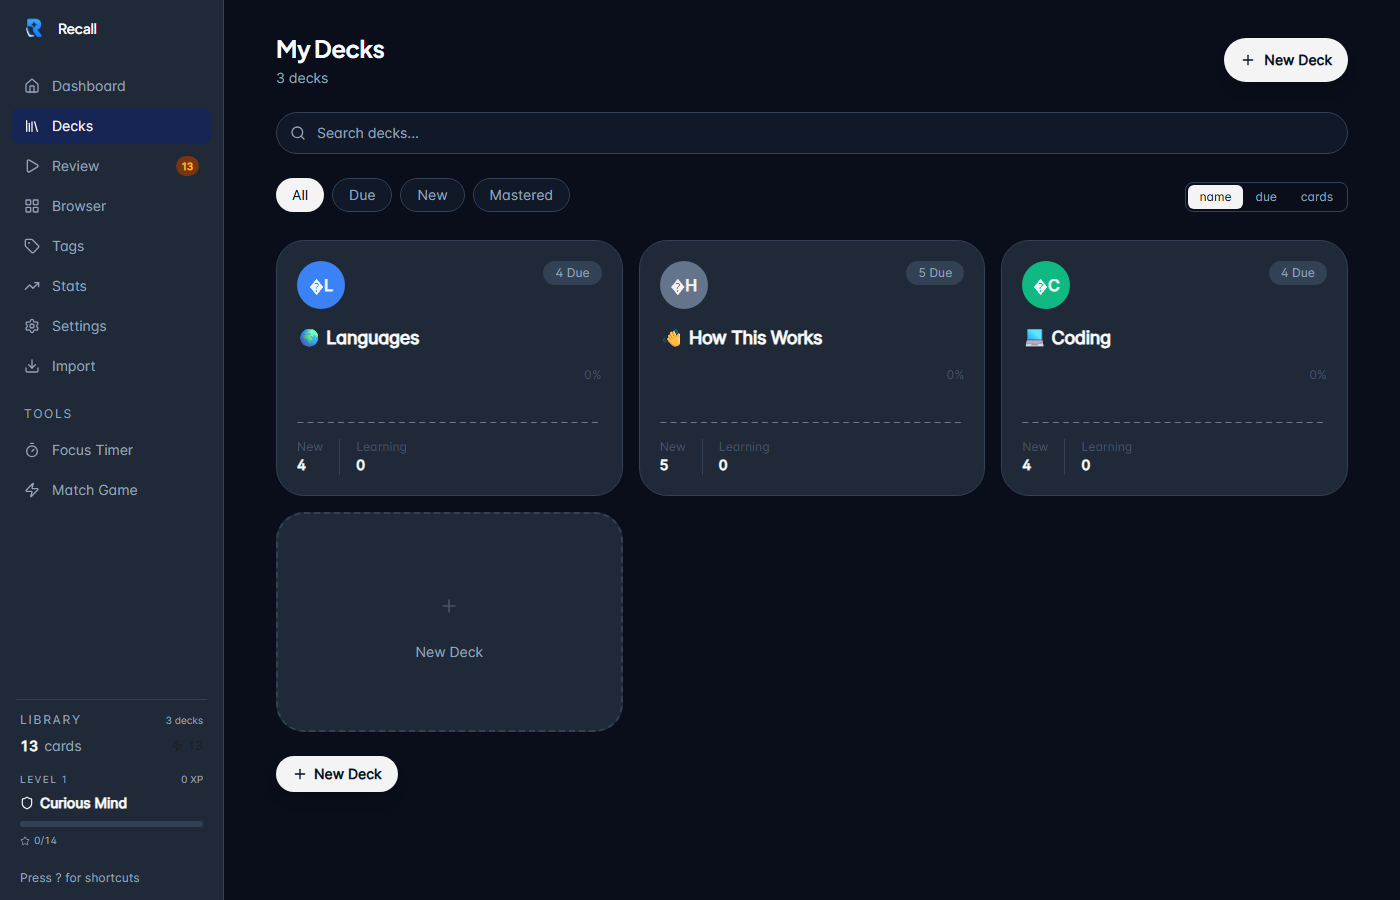
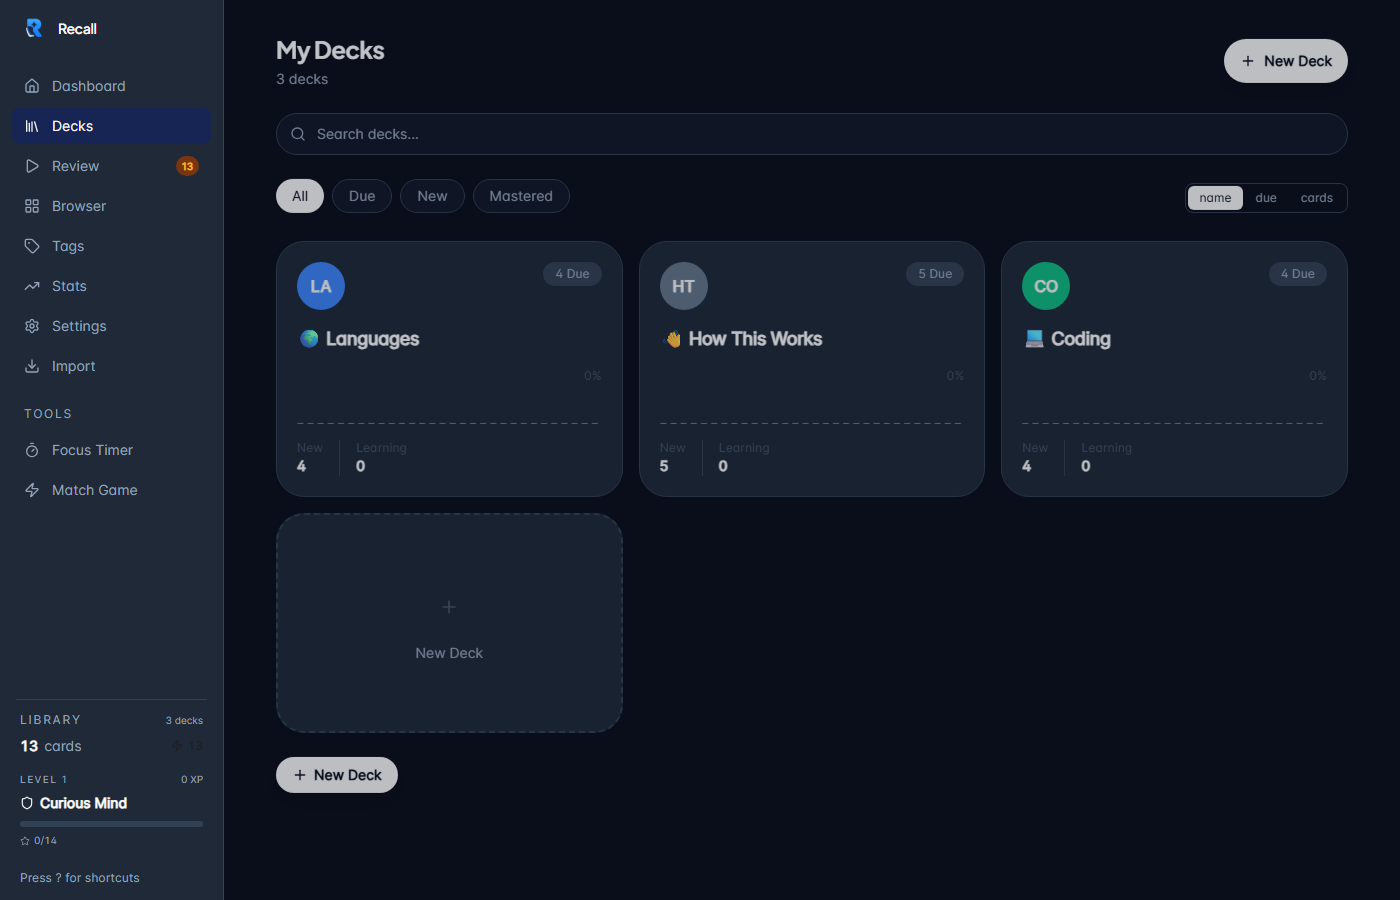
fix: deck card initials skip emoji + drop README em dashes
Template deck names start with emoji; old initials took a UTF-16
half-surrogate and rendered a diamond-H/C/L glyph. Use letter-only
tokens (HT/CO/LA). Strip em/en dashes from README; recapture deck browser.

diff --git a/src/components/deck-card.tsx b/src/components/deck-card.tsx
@@ -12,6 +12,18 @@ interface DeckCardProps {
   onOpen: () => void;
 }
 
+/** First 1-2 letter initials, ignoring emoji/symbol-only tokens. */
+export function deckInitials(name: string): string {
+  const words = name
+    .trim()
+    .split(/\s+/)
+    .map((w) => (w.match(/\p{L}/gu) ?? []).join(""))
+    .filter(Boolean);
+  if (words.length >= 2) return (words[0][0] + words[1][0]).toUpperCase();
+  if (words.length === 1) return words[0].slice(0, 2).toUpperCase();
+  return "?";
+}
+
 export function DeckCard({ deck, onOpen }: DeckCardProps): JSX.Element {
   const { t } = useTranslation();
   const cards = useRecallStore((state) => state.cards);
@@ -29,11 +41,8 @@ export function DeckCard({ deck, onOpen }: DeckCardProps): JSX.Element {
     return forecast.map((f) => ({ height: Math.max(Math.round((f.due / max) * 20), 1) }));
   }, [deckCards]);
 
-  const abbr = useMemo(() => {
-    const words = deck.name.trim().split(/\s+/);
-    if (words.length >= 2) return (words[0][0] + words[1][0]).toUpperCase();
-    return deck.name.slice(0, 2).toUpperCase();
-  }, [deck.name]);
+  // Template decks prefix emoji in name ("👋 How This Works"); skip non-letters.
+  const abbr = useMemo(() => deckInitials(deck.name), [deck.name]);
 
   return (
     <button

diff --git a/src/components/__tests__/deck-initials.test.ts b/src/components/__tests__/deck-initials.test.ts
@@ -1,0 +1,15 @@
+import { describe, expect, it } from "vitest";
+import { deckInitials } from "@/components/deck-card";
+
+describe("deckInitials", () => {
+  it("skips leading emoji on template deck names", () => {
+    expect(deckInitials("👋 How This Works")).toBe("HT");
+    expect(deckInitials("💻 Coding")).toBe("CO");
+    expect(deckInitials("🌐 Languages")).toBe("LA");
+  });
+
+  it("handles plain multi-word and single-word names", () => {
+    expect(deckInitials("Japanese N5")).toBe("JN");
+    expect(deckInitials("Anatomy")).toBe("AN");
+  });
+});

diff --git a/README.md b/README.md
@@ -5,7 +5,7 @@
 [![License: MIT](https://img.shields.io/badge/License-MIT-green.svg)](LICENSE)
 [![Platform](https://img.shields.io/badge/platform-Windows%20%7C%20macOS%20%7C%20Linux%20%7C%20PWA-blue)](https://github.com/Madlezz/Recall/releases/latest)
 
-**Recall** is a local-first flashcard app built for focused learning. It uses FSRS-based scheduling for modern spaced repetition — open it and start reviewing. Your data stays on your machine. Available as a desktop app (Windows / macOS / Linux) and a PWA on mobile.
+**Recall** is a local-first flashcard app built for focused learning. It uses FSRS-based scheduling for modern spaced repetition - open it and start reviewing. Your data stays on your machine. Available as a desktop app (Windows / macOS / Linux) and a PWA on mobile.
 
 ## Documentation
 
@@ -46,7 +46,7 @@ Anki pioneered spaced repetition and has an enormous add-on ecosystem. Recall ta
 
 ## Screenshots
 
-Dashboard — due cards, daily goal, deck grid:
+Dashboard - due cards, daily goal, deck grid:
 
 ![Dashboard](docs/screenshots/dashboard.png)
 
@@ -54,31 +54,31 @@ Deck browser:
 
 ![Deck Browser](docs/screenshots/deck-browser.png)
 
-Deck detail — stats, tags, card list:
+Deck detail - stats, tags, card list:
 
 ![Deck Detail](docs/screenshots/deck-detail.png)
 
-Study — card front:
+Study - card front:
 
 ![Study Mode](docs/screenshots/study.png)
 
-Study — answer revealed + FSRS interval preview:
+Study - answer revealed + FSRS interval preview:
 
-![Study — Answer Revealed](docs/screenshots/study-revealed.png)
+![Study - Answer Revealed](docs/screenshots/study-revealed.png)
 
-Stats — activity, retention, forecast:
+Stats - activity, retention, forecast:
 
 ![Stats](docs/screenshots/stats.png)
 
-Tags — hierarchical tree:
+Tags - hierarchical tree:
 
 ![Tags](docs/screenshots/tags.png)
 
-Card browser — search, filter, bulk actions:
+Card browser - search, filter, bulk actions:
 
 ![Card Browser](docs/screenshots/card-browser.png)
 
-Settings — theme, accent, language, TTS:
+Settings - theme, accent, language, TTS:
 
 ![Settings](docs/screenshots/settings.png)
 
@@ -89,49 +89,49 @@ Settings — theme, accent, language, TTS:
 ## Features
 
 ### Smart Study
-- **FSRS scheduling** — Again / Hard / Good / Easy
-- **Cloze deletion** — `{{c1::hidden text}}`
-- **Rich cards** — Markdown, LaTeX, syntax-highlighted code
-- **Anki import** — `.apkg` (review history + FSRS state)
+- **FSRS scheduling** - Again / Hard / Good / Easy
+- **Cloze deletion** - `{{c1::hidden text}}`
+- **Rich cards** - Markdown, LaTeX, syntax-highlighted code
+- **Anki import** - `.apkg` (review history + FSRS state)
 - **CSV / Markdown / `.recall` import**
-- **Custom study** — deck, count, tag filter, new-only
-- **Card browser** — search, filter, sort, bulk tag/delete/move
-- **Tags** — hierarchical tree, saved searches, autocomplete
+- **Custom study** - deck, count, tag filter, new-only
+- **Card browser** - search, filter, sort, bulk tag/delete/move
+- **Tags** - hierarchical tree, saved searches, autocomplete
 - **FSRS interval preview** on rating buttons
 - **FSRS optimizer** from review history
-- Keyboard-first: `Space` reveal, `1`–`4` rate, `R` review, `Ctrl+N` quick-add
+- Keyboard-first: `Space` reveal, `1`-`4` rate, `R` review, `Ctrl+N` quick-add
 
 ### Stay Motivated
-- **XP & levels** — Curious Mind → Legend
-- **Achievements** — streaks, volume, accuracy, time-based
+- **XP & levels** - Curious Mind → Legend
+- **Achievements** - streaks, volume, accuracy, time-based
 - **Daily goal** + confetti on completion
 - **Session summaries**
-- **Onboarding gallery** — 6 starter decks
+- **Onboarding gallery** - 6 starter decks
 
 ### Study Tools
-- **Focus timer** — 15 / 25 / 45m
-- **Ambient soundscapes** — Rain, Cafe, Lofi (synthesized, no assets)
+- **Focus timer** - 15 / 25 / 45m
+- **Ambient soundscapes** - Rain, Cafe, Lofi (synthesized, no assets)
 - **Match game**
 - **Review calendar** heatmap
 - **Sound effects** + optional TTS
 - **Swipe gestures** on mobile
 - **Voice input** in card editor (Web Speech API)
-- **Command palette** — `Ctrl+K`
+- **Command palette** - `Ctrl+K`
 
 ### Analytics
 - Review volume, rating distribution, time-of-day
-- Deck health — retention, leeches, overdue
+- Deck health - retention, leeches, overdue
 - Activity heatmap, retention curve, 30-day workload forecast
 
 ### Privacy First
 - No account, no telemetry by default
 - Offline SQLite on your machine
 - JSON / `.recall` export
-- **E2E encrypted sync** — AES-256-GCM + PBKDF2, sync-code pairing, self-hostable Cloudflare Worker
+- **E2E encrypted sync** - AES-256-GCM + PBKDF2, sync-code pairing, self-hostable Cloudflare Worker
 - Optional folder sync (Dropbox, Drive, etc.)
 
 ### Customization
-- **6 accent colors** — zinc, blue, green, rose, amber, violet
+- **6 accent colors** - zinc, blue, green, rose, amber, violet
 - **Dyslexia-friendly font**
 - **Dark / Light / High-contrast**
 - **English + Bahasa Indonesia**
@@ -144,15 +144,15 @@ Settings — theme, accent, language, TTS:
 
 - **Node.js** 22+ (dev pin: `.node-version` → 24.18.0) and **pnpm** 10+
 - **Rust** stable (`rustup install stable`) for desktop builds
-- Platform libraries — see [CONTRIBUTING.md](CONTRIBUTING.md#prerequisites)
+- Platform libraries - see [CONTRIBUTING.md](CONTRIBUTING.md#prerequisites)
 
 ### Run
 
 ```bash
 pnpm install
-pnpm tauri dev       # Desktop (Tauri)
+pnpm tauri dev # Desktop (Tauri)
 # or
-pnpm dev             # Browser preview (no Rust)
+pnpm dev # Browser preview (no Rust)
 ```
 
 ### PWA
@@ -164,10 +164,10 @@ Swipe left / right / up / down to rate after reveal.
 ### Testing
 
 ```bash
-pnpm test            # Unit tests (776)
-pnpm lint            # ESLint
-pnpm build           # tsc + Vite production build
-pnpm test:e2e        # Playwright (starts `pnpm dev` via config)
+pnpm test # Unit tests (778)
+pnpm lint # ESLint
+pnpm build # tsc + Vite production build
+pnpm test:e2e # Playwright (starts `pnpm dev` via config)
 ```
 
 ---
@@ -183,7 +183,7 @@ Pre-built binaries on [Releases](https://github.com/Madlezz/Recall/releases/late
 | macOS (Intel) | `.dmg` |
 | Linux | `.AppImage` |
 
-Or build from source — [Quick Start](#quick-start).
+Or build from source - [Quick Start](#quick-start).
 
 ---
 
@@ -194,7 +194,7 @@ Local-first: card data stays on device unless you enable sync.
 - **CI audits**: `cargo audit`, Dependabot, CodeQL on push/PR
 - **Disclosure**: [SECURITY.md](SECURITY.md)
 
-Sync codes are E2E key material — never put them in exports or screenshots.
+Sync codes are E2E key material - never put them in exports or screenshots.
 
 ---
 
@@ -203,7 +203,7 @@ Sync codes are E2E key material — never put them in exports or screenshots.
 | Keys | Action |
 |------|--------|
 | `Space` | Reveal answer |
-| `1`–`4` | Again / Hard / Good / Easy |
+| `1`-`4` | Again / Hard / Good / Easy |
 | `R` | Start review |
 | `B` | Bury card |
 | `S` | Snooze card |
